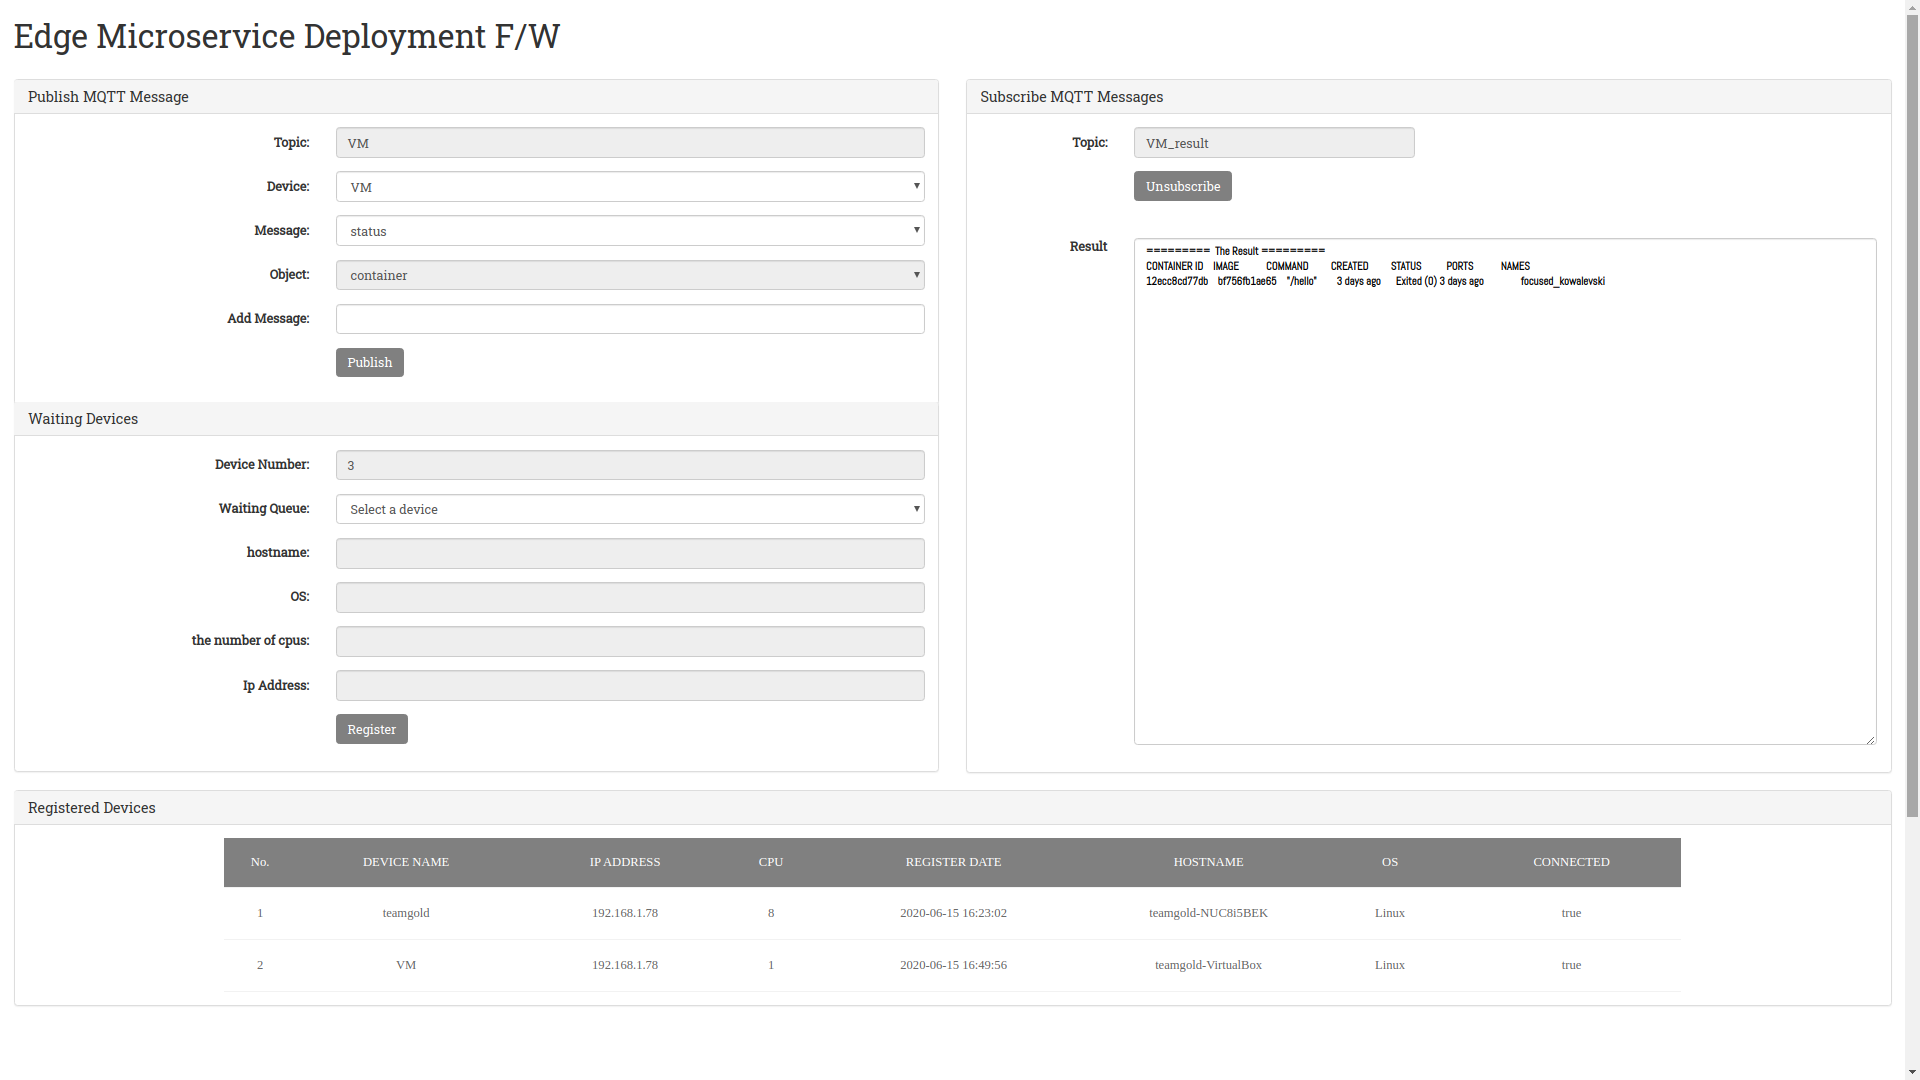
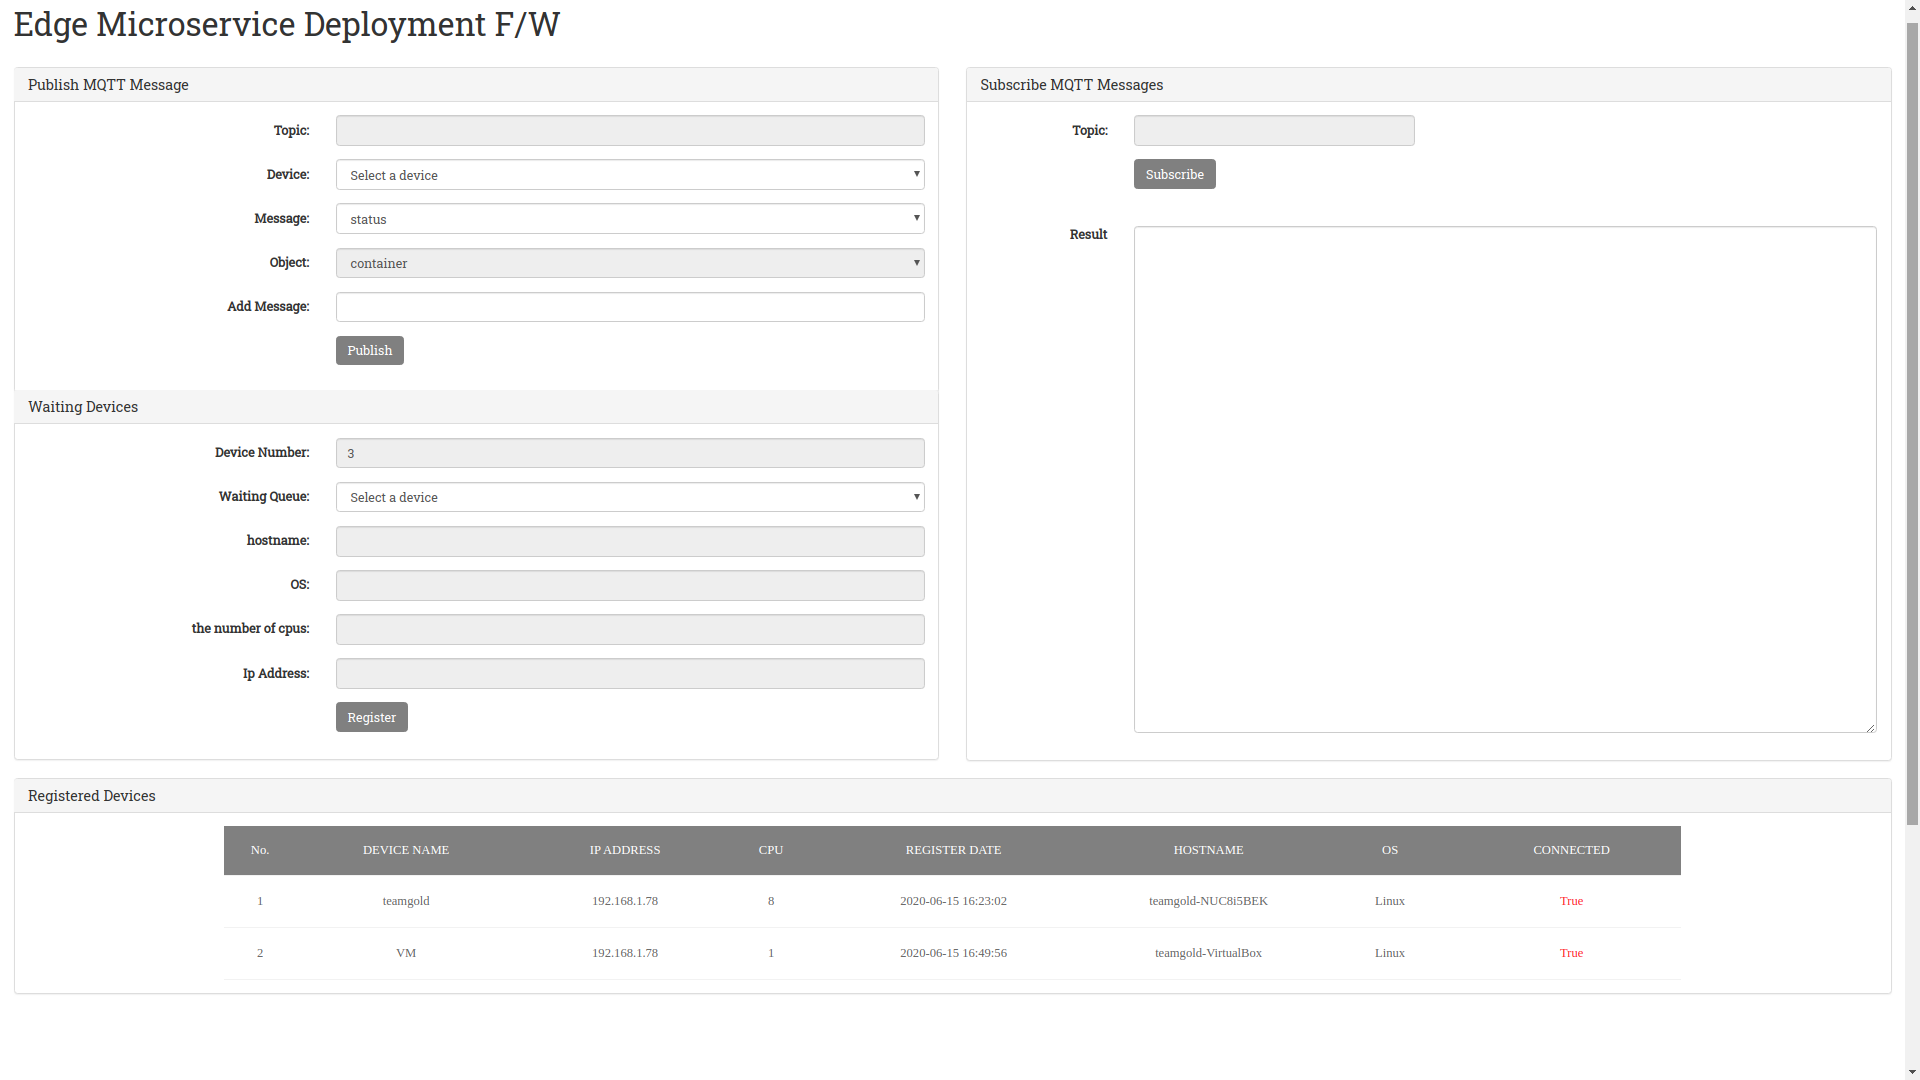
Update prototype

diff --git a/Flask/templates/mqttindex.html b/Flask/templates/mqttindex.html
@@ -234,7 +234,7 @@ $(document).ready(function() {
                   <br><label class="control-label col-xs-2">Result</label>
                   
                     <label class="control-label col-xs-10">
-                    <textarea id="subscribe_messages" class="form-control" rows=33 readonly></textarea></label>
+                    <textarea id="subscribe_messages" class="form-control" rows=34 readonly></textarea></label>
                   
                 </div>
               </div>

diff --git a/Flask/static/css/main.css b/Flask/static/css/main.css
@@ -9,7 +9,7 @@ body, html {
 
 #registerArea{
   position: relative;
-  bottom: 433px;
+  bottom: 430px;
   
 
 }
@@ -24,7 +24,7 @@ body, html {
 }
 
 #deviceListArea{
-  bottom: 433px;
+  bottom: 428px;
 }
 
 .btn{
